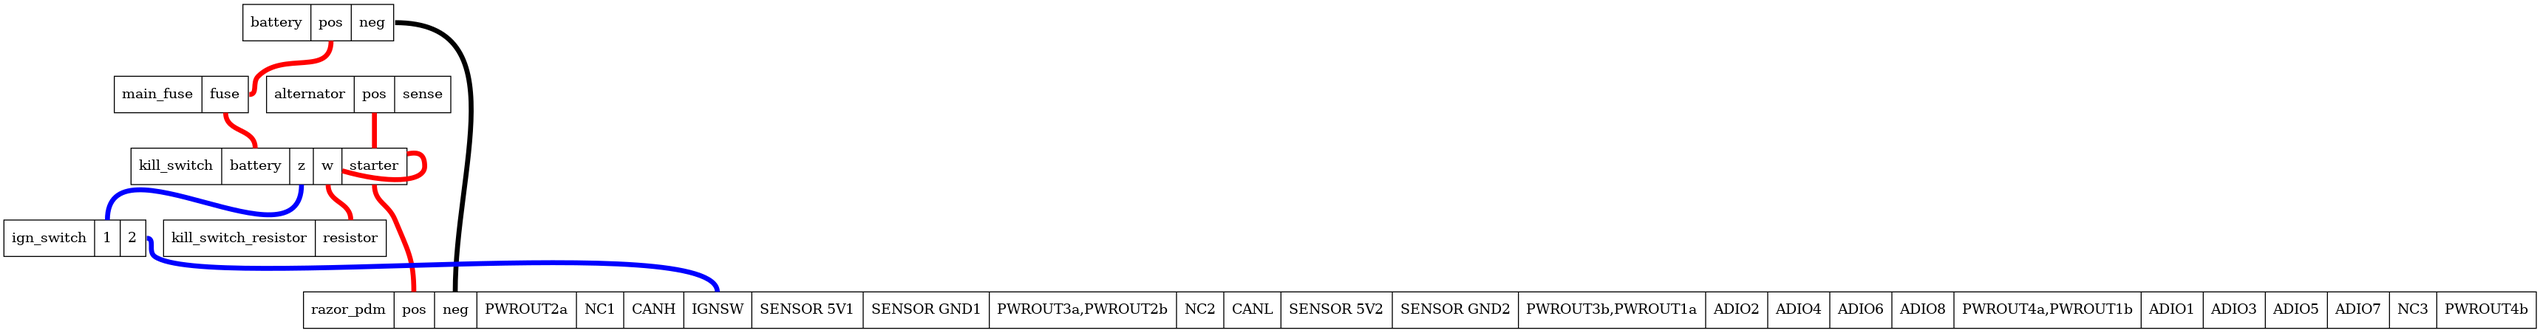
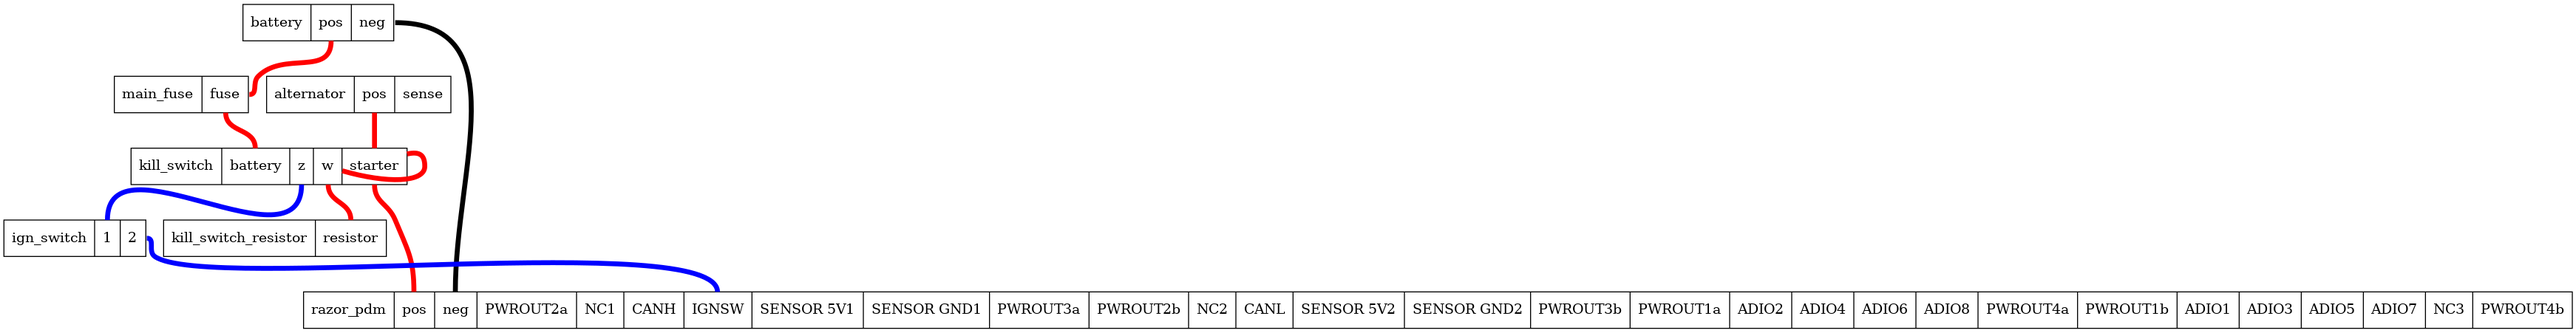
Fix pins on PDM

diff --git a/corrado_wiring.py b/corrado_wiring.py
@@ -31,9 +31,9 @@ Node('kill_switch_resistor', ['resistor'])
 Node('ign_switch', ['1', '2'])
 Node('razor_pdm', [
     'pos', 'neg',
-    'PWROUT2a', 'NC1', 'CANH', 'IGNSW', 'SENSOR 5V1', 'SENSOR GND1', 'PWROUT3a,'
-    'PWROUT2b', 'NC2', 'CANL', 'SENSOR 5V2', 'SENSOR GND2', 'PWROUT3b,'
-    'PWROUT1a', 'ADIO2', 'ADIO4', 'ADIO6', 'ADIO8', 'PWROUT4a,'
+    'PWROUT2a', 'NC1', 'CANH', 'IGNSW', 'SENSOR 5V1', 'SENSOR GND1', 'PWROUT3a',
+    'PWROUT2b', 'NC2', 'CANL', 'SENSOR 5V2', 'SENSOR GND2', 'PWROUT3b',
+    'PWROUT1a', 'ADIO2', 'ADIO4', 'ADIO6', 'ADIO8', 'PWROUT4a',
     'PWROUT1b', 'ADIO1', 'ADIO3', 'ADIO5', 'ADIO7', 'NC3', 'PWROUT4b'
 ])
 # TODO: Connect fuel pump.
